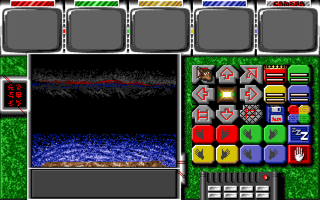
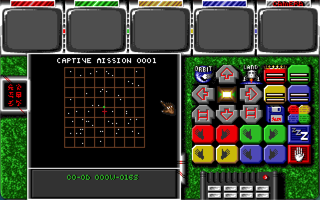
fix: start Captive on real holomap

diff --git a/src/main.c b/src/main.c
@@ -3027,13 +3027,11 @@ int main(int argc, char *argv[]) {
                                 captive_holamap_reset(gs.mission);
                                 gs.mode = STATE_HOLAMAP;
                             }
-                            /* Show the backstory scroll first; it hands off
-                             * to whichever mode was just computed above
-                             * (the intro cutscene, or droid config directly
-                             * when no intro animation could be loaded). */
+                            /* Captive startup must use the verified original
+                             * ANM when available, then continue to the real
+                             * holomap.  The old replacement story scroll was
+                             * generated text and was never part of CAPPO. */
                             post_story_mode = gs.mode;
-                            gs.mode = STATE_STORY;
-                            story_scroll_y = 0;
                             break;
                         case MENU_RESULT_START_LIBERATION:
                             /* A fresh Liberation game must not inherit the

diff --git a/docs/CAPTIVE_HOLAMAP_REFERENCE.md b/docs/CAPTIVE_HOLAMAP_REFERENCE.md
@@ -5,15 +5,12 @@ original CAPPO holomap while the original vector/object decoder is being
 recovered. It is reference media from the supplied original runtime, not
 generated terrain, labels, stars, markers, or replacement text.
 
-Source capture:
-
-- `capture/cappo_000.png`
-- 640×400 DOSBox-X frame, SHA-256
[1 lines of base64/hex data omitted]
-
-The checked-in runtime asset `assets/captive/holamap-initial.png` is the same
-frame reduced 2× to the native 320×200 canvas. Its SHA-256 is
[1 lines of base64/hex data omitted]
+Source capture: the supplied `CAPPO.EXE` session in DOSBox-X, after the
+original `INTRO.EXE` and `FILEPLAY.EXE` complete, showing `CAPTIVE MISSION
+0001` in the navigation view. The checked-in runtime asset
+`assets/captive/holamap-initial.png` is that real frame reduced 2× to the
+native 320×200 canvas. Its SHA-256 is
[1 lines of base64/hex data omitted]
 Nearest-neighbour sampling preserves the original pixel values at native
 resolution.
 
